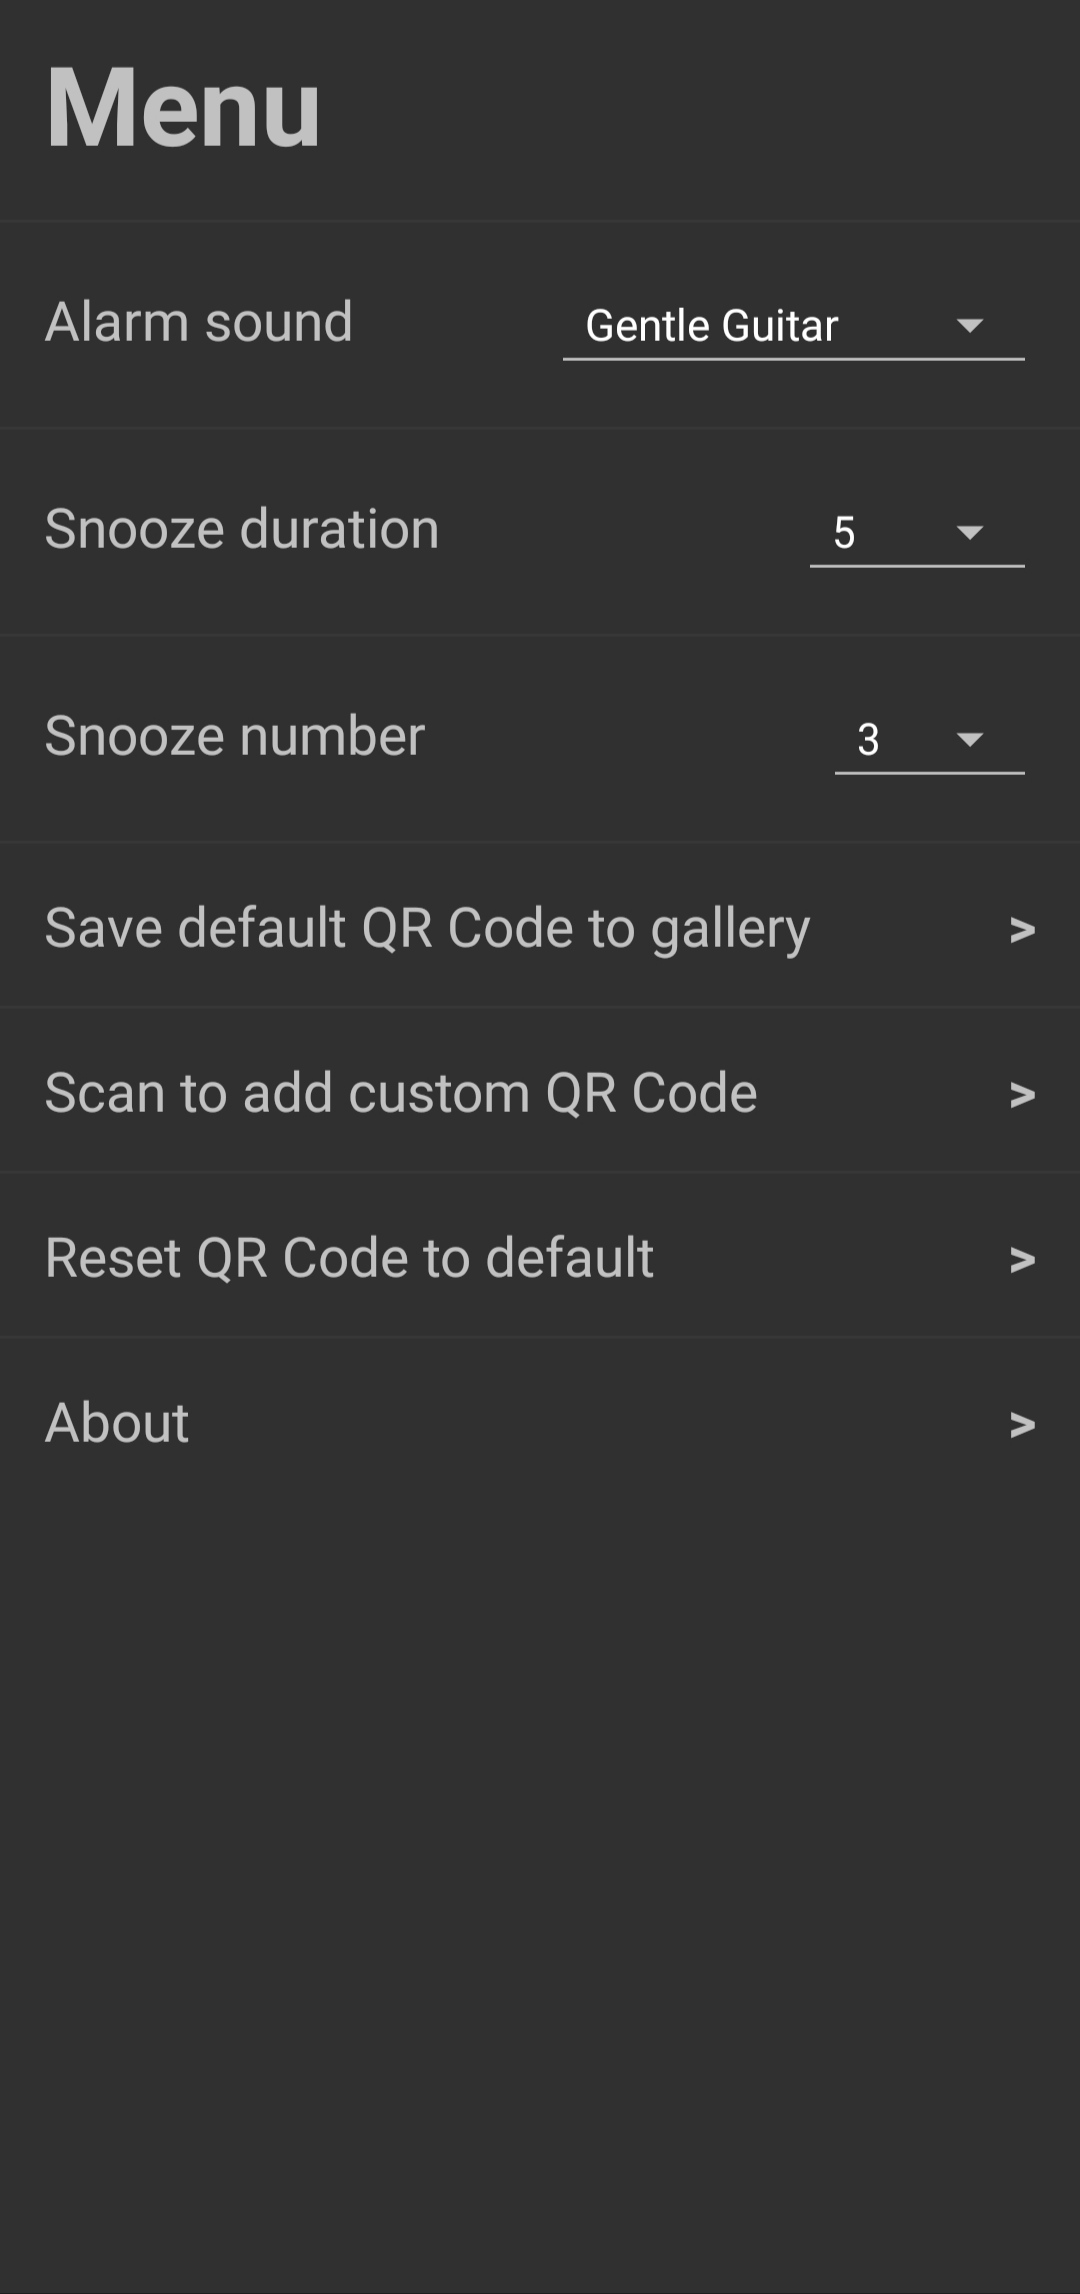
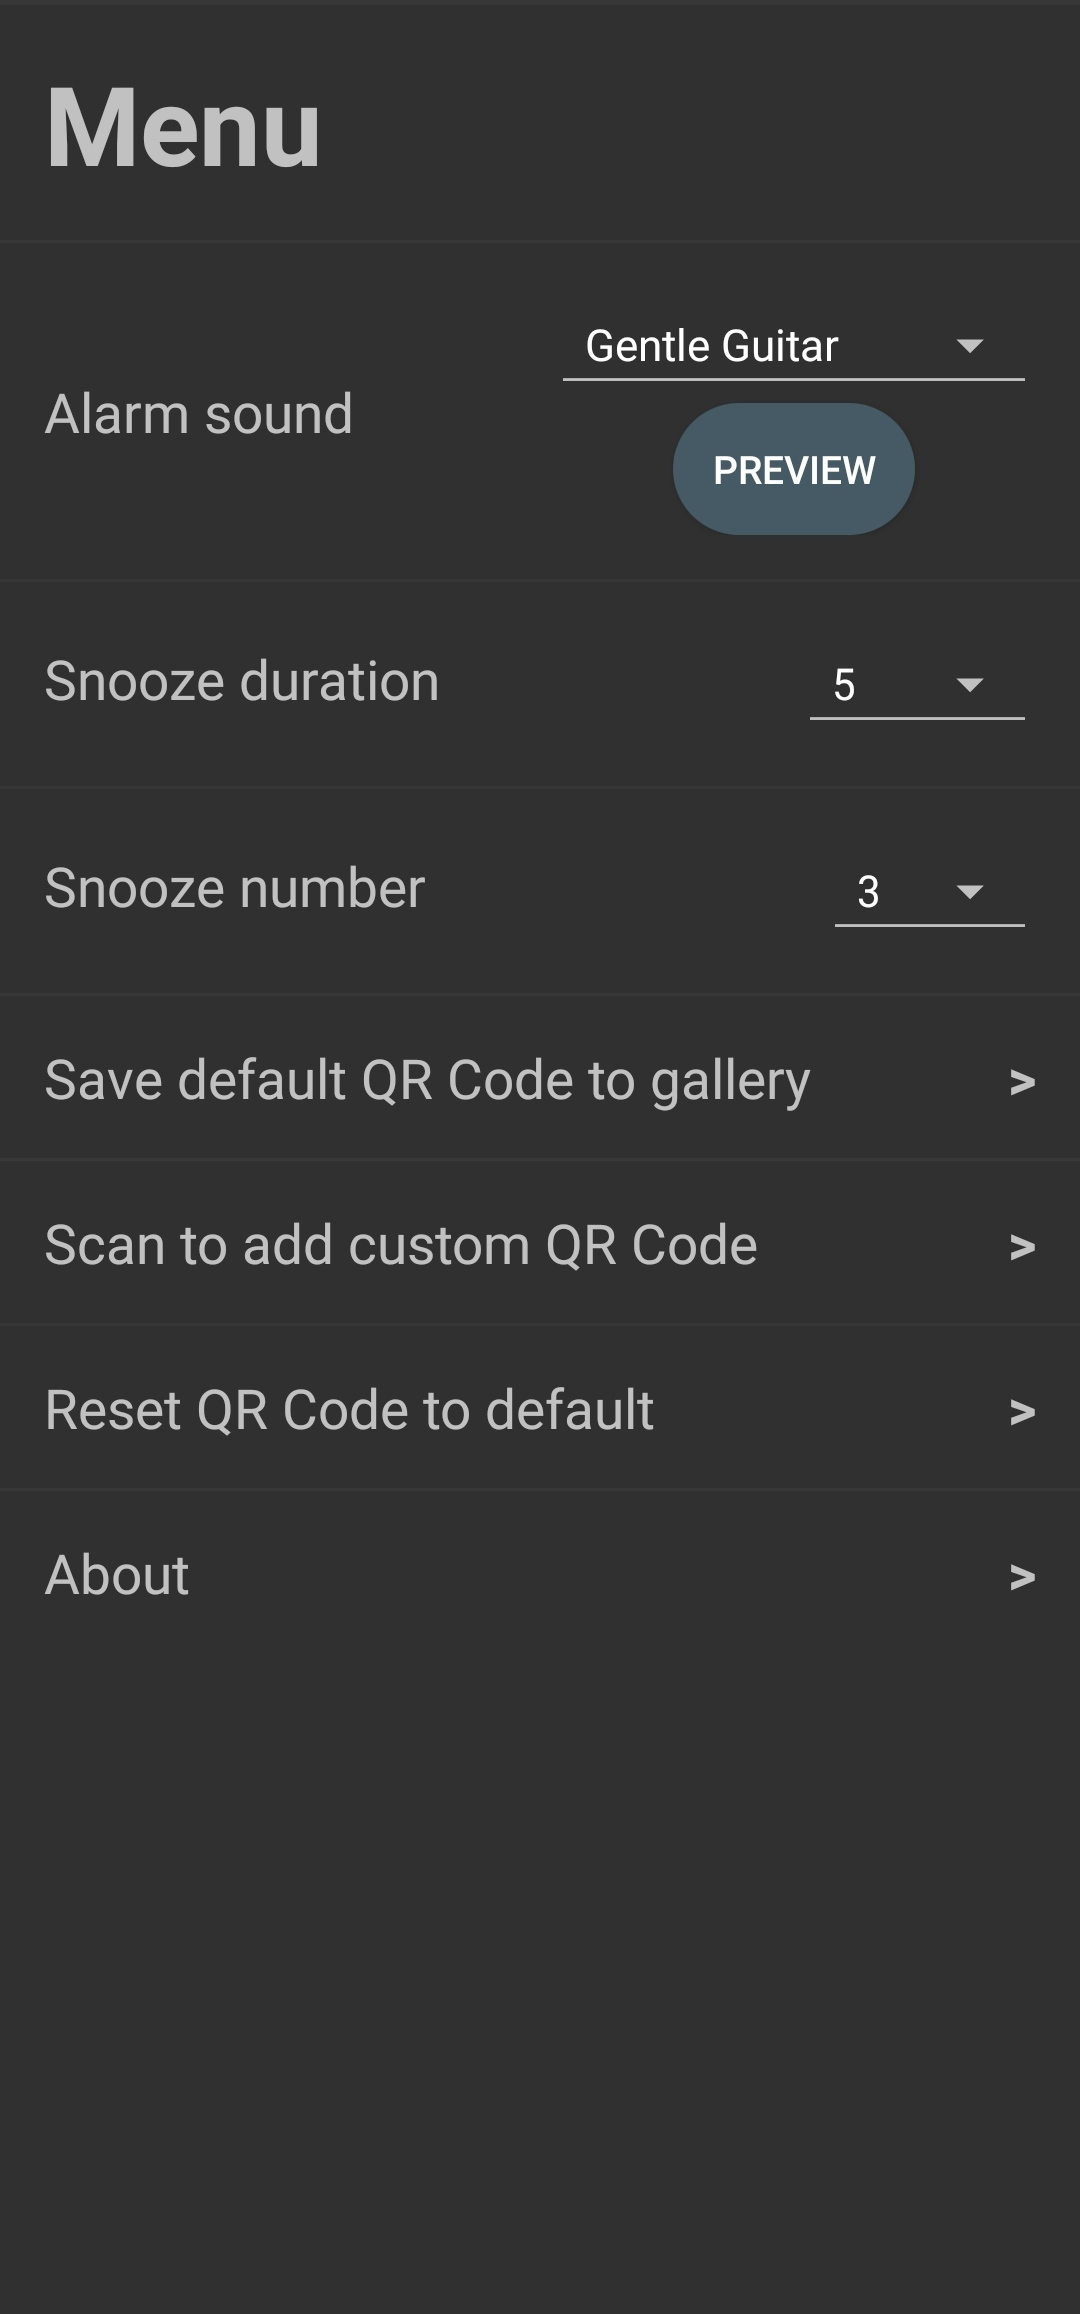
Added 'Preview' feature for the alarm in the menu

diff --git a/app/src/main/java/com/sweak/smartalarm/service/AlarmService.java b/app/src/main/java/com/sweak/smartalarm/service/AlarmService.java
@@ -19,6 +19,7 @@ import androidx.core.app.NotificationCompat;
 import androidx.localbroadcastmanager.content.LocalBroadcastManager;
 
 import com.sweak.smartalarm.activity.LockScreenActivity;
+import com.sweak.smartalarm.util.AlarmPlayer;
 import com.sweak.smartalarm.util.AlarmToneManager;
 import com.sweak.smartalarm.util.Preferences;
 import com.sweak.smartalarm.R;
@@ -35,8 +36,8 @@ public class AlarmService extends Service {
 
     private Preferences mPreferences;
     private NotificationManager mNotificationManager;
+    private AlarmPlayer mAlarmPlayer;
     private SnoozeReceiver mSnoozeReceiver;
-    private MediaPlayer mMediaPlayer;
     private Notification mNotification;
 
     @Override
@@ -45,12 +46,11 @@ public class AlarmService extends Service {
 
         mPreferences = new Preferences(getApplication());
         mNotificationManager = (NotificationManager)getSystemService(Context.NOTIFICATION_SERVICE);
-        mMediaPlayer = new MediaPlayer();
+        mAlarmPlayer = new AlarmPlayer(this);
 
         mPreferences.setSnoozeAlarmPending(false);
         registerSnoozeReceiver();
         prepareNotification();
-        prepareMediaPlayer();
     }
 
     private void registerSnoozeReceiver() {
@@ -101,24 +101,11 @@ public class AlarmService extends Service {
         builder.setFullScreenIntent(lockScreenPendingIntent, true);
     }
 
-    private void prepareMediaPlayer() {
-        try {
-            mMediaPlayer.setDataSource(this,
-                    AlarmToneManager.getAlarmToneUri(mPreferences.getAlarmToneId()));
-            mMediaPlayer.setAudioAttributes(
-                    new AudioAttributes.Builder().setUsage(AudioAttributes.USAGE_ALARM).build());
-            mMediaPlayer.setLooping(true);
-            mMediaPlayer.prepare();
-        } catch (IOException e) {
-            e.printStackTrace();
-        }
-    }
-
     @Override
     public int onStartCommand(Intent intent, int flags, int startId) {
         mPreferences.setAlarmRinging(true);
 
-        mMediaPlayer.start();
+        mAlarmPlayer.startAlarm(mPreferences.getAlarmToneId());
 
         if (Build.VERSION.SDK_INT >= Build.VERSION_CODES.O) {
             startForeground(NOTIFICATION_ID, mNotification);
@@ -149,7 +136,7 @@ public class AlarmService extends Service {
 
         mPreferences.setAlarmRinging(false);
 
-        mMediaPlayer.stop();
+        mAlarmPlayer.stop();
 
         if (Build.VERSION.SDK_INT >= Build.VERSION_CODES.O) {
             stopForeground(true);

diff --git a/app/src/main/java/com/sweak/smartalarm/activity/MenuActivity.java b/app/src/main/java/com/sweak/smartalarm/activity/MenuActivity.java
@@ -21,6 +21,7 @@ import android.widget.Toast;
 
 import com.sweak.smartalarm.fragment.AboutDialogFragment;
 import com.sweak.smartalarm.App;
+import com.sweak.smartalarm.util.AlarmPlayer;
 import com.sweak.smartalarm.util.Preferences;
 import com.sweak.smartalarm.R;
 
@@ -30,9 +31,10 @@ public class MenuActivity extends AppCompatActivity
     private final int WRITE_GALLERY_PERMISSION_REQUEST_CODE = 1;
 
     private Preferences mPreferences;
-    Spinner mAlarmToneSpinner;
-    Spinner mSnoozeDurationSpinner;
-    Spinner mSnoozeNumberSpinner;
+    private AlarmPlayer mAlarmPlayer;
+    private Spinner mAlarmToneSpinner;
+    private Spinner mSnoozeDurationSpinner;
+    private Spinner mSnoozeNumberSpinner;
     ArrayAdapter<CharSequence> mAlarmToneAdapter;
     ArrayAdapter<CharSequence> mSnoozeDurationAdapter;
     ArrayAdapter<CharSequence> mSnoozeNumberAdapter;
@@ -43,9 +45,17 @@ public class MenuActivity extends AppCompatActivity
         setContentView(R.layout.activity_menu);
 
         mPreferences = new Preferences(getApplication());
+        mAlarmPlayer = new AlarmPlayer(getApplication());
         findAndAssignViews();
         prepareViews();
         setSpinnerListeners();
+    }
+
+    @Override
+    protected void onPause() {
+        super.onPause();
+
+        mAlarmPlayer.stop();
     }
 
     private void findAndAssignViews() {
@@ -82,6 +92,7 @@ public class MenuActivity extends AppCompatActivity
             @Override
             public void onItemSelected(AdapterView<?> parent, View view, int position, long id) {
                 mPreferences.setAlarmToneId(position);
+                mAlarmPlayer.stop();
             }
             @Override
             public void onNothingSelected(AdapterView<?> parent) {}
@@ -171,5 +182,9 @@ public class MenuActivity extends AppCompatActivity
                         Toast.LENGTH_LONG).show();
             }
         }
+    }
+
+    public void startAlarmPreview(View view) {
+        mAlarmPlayer.startPreview(mPreferences.getAlarmToneId());
     }
 }

diff --git a/app/src/main/java/com/sweak/smartalarm/util/AlarmPlayer.java b/app/src/main/java/com/sweak/smartalarm/util/AlarmPlayer.java
@@ -1,0 +1,72 @@
+package com.sweak.smartalarm.util;
+
+import android.content.Context;
+import android.media.AudioAttributes;
+import android.media.MediaPlayer;
+
+import java.io.IOException;
+
+public class AlarmPlayer {
+
+    private final MediaPlayer mMediaPlayer;
+    private final Context mContext;
+
+    public AlarmPlayer(Context context) {
+        mMediaPlayer = new MediaPlayer();
+        mContext = context;
+    }
+
+    public void setAlarmTone(int alarmToneId) {
+        try {
+            mMediaPlayer.setDataSource(mContext, AlarmToneManager.getAlarmToneUri(alarmToneId));
+        } catch (IOException e) {
+            e.printStackTrace();
+        }
+    }
+
+    private void prepareAlarmPlayer() {
+        mMediaPlayer.setAudioAttributes(
+                new AudioAttributes.Builder().setUsage(AudioAttributes.USAGE_ALARM).build());
+        mMediaPlayer.setLooping(true);
+
+        try {
+            mMediaPlayer.prepare();
+        } catch (IOException e) {
+            e.printStackTrace();
+        }
+    }
+
+    private void prepareAlarmPreviewPlayer() {
+        mMediaPlayer.setAudioAttributes(
+                new AudioAttributes.Builder().setUsage(AudioAttributes.USAGE_MEDIA).build());
+        mMediaPlayer.setLooping(false);
+
+        try {
+            mMediaPlayer.prepare();
+        } catch (IOException e) {
+            e.printStackTrace();
+        }
+    }
+
+    public void startAlarm(int alarmToneId) {
+        mMediaPlayer.reset();
+
+        setAlarmTone(alarmToneId);
+        prepareAlarmPlayer();
+        mMediaPlayer.start();
+    }
+
+    public void startPreview(int alarmToneId) {
+        mMediaPlayer.reset();
+
+        setAlarmTone(alarmToneId);
+        prepareAlarmPreviewPlayer();
+        mMediaPlayer.start();
+    }
+
+    public void stop() {
+        if (mMediaPlayer.isPlaying()) {
+            mMediaPlayer.stop();
+        }
+    }
+}
